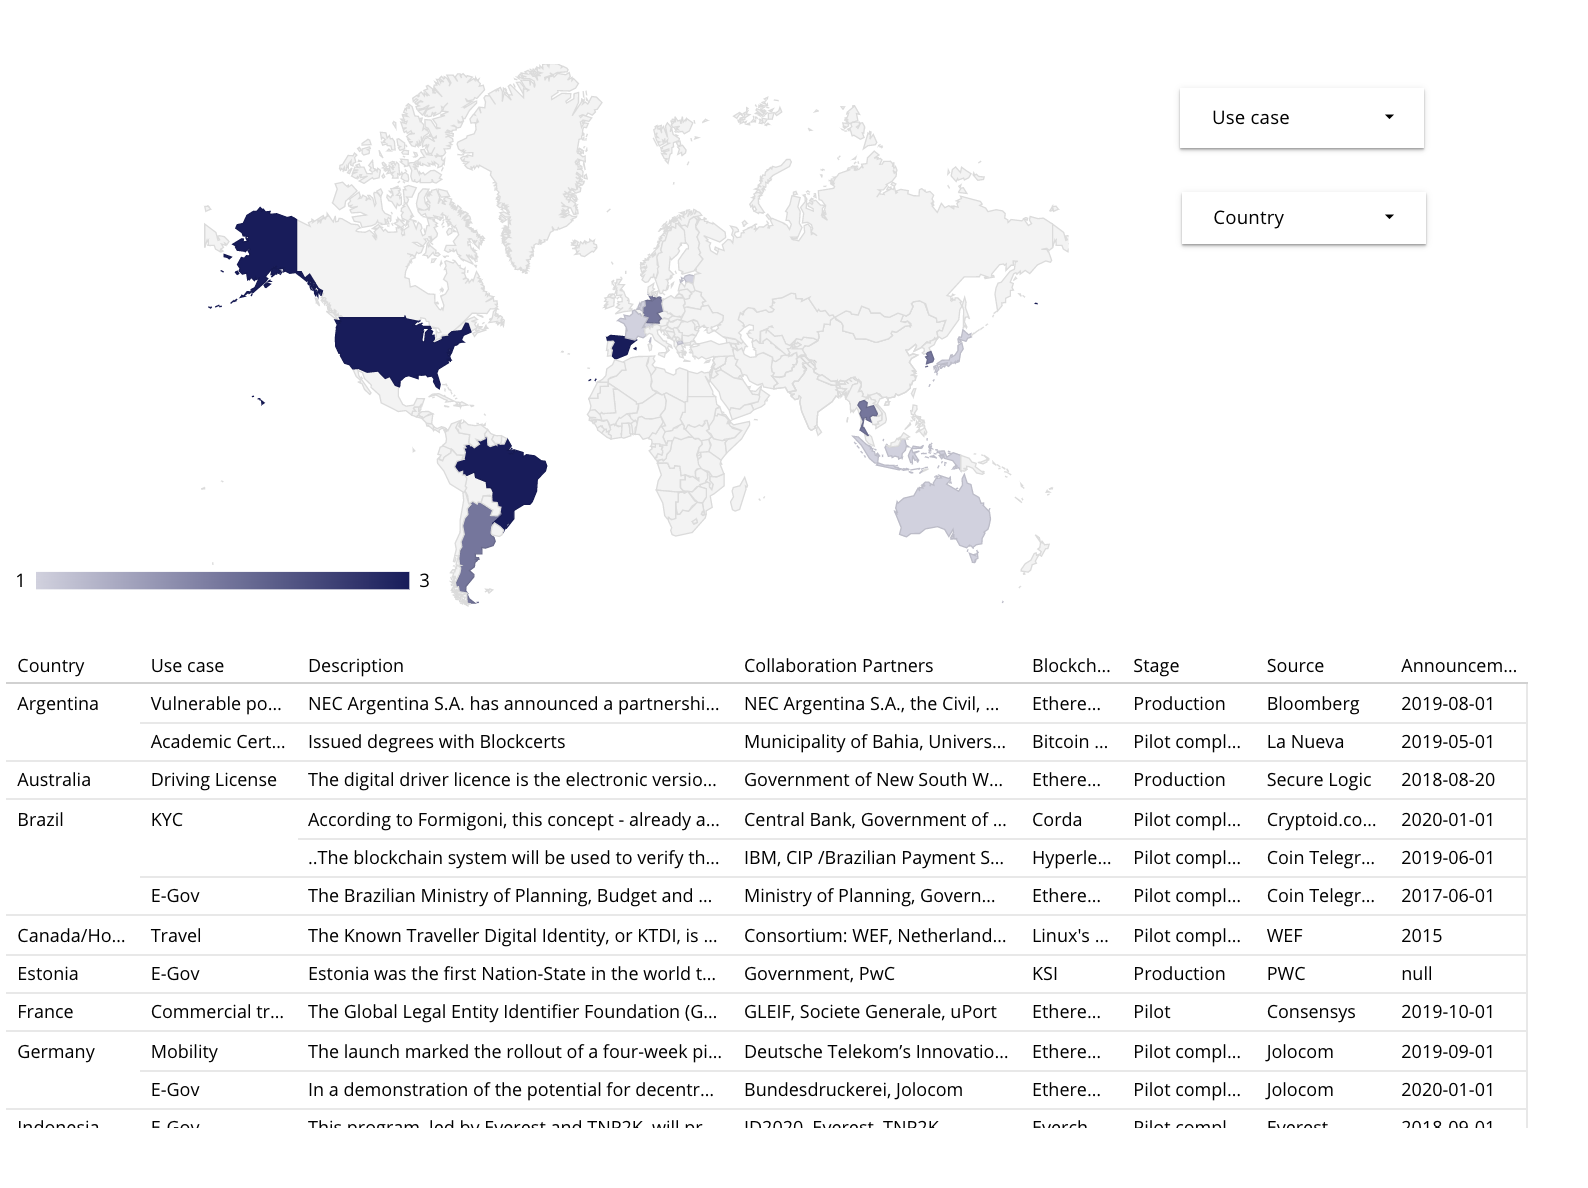
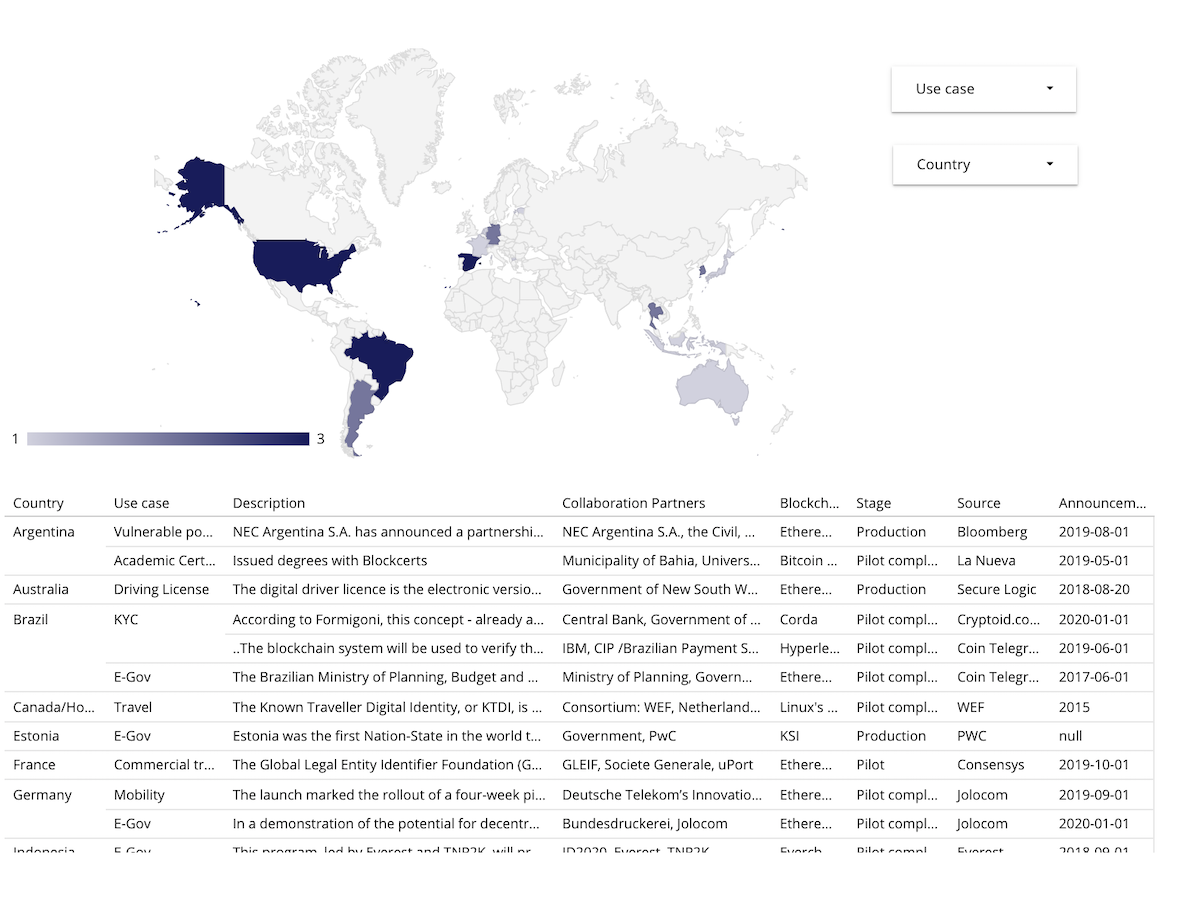
Update from Forestry.io Lou Anderson created static/images/decentralized-digital-identity-pilots.png Lou Anderson updated content/posts/decentralized-identity-projects-and-pilots.md

diff --git a/content/posts/decentralized-identity-projects-and-pilots.md b/content/posts/decentralized-identity-projects-and-pilots.md
@@ -5,9 +5,9 @@ meta_data:
   title: Decentralized identity projects and pilots
   description: Decentralized identity projects and pilots
   rrss_images:
-    twitter: ''
-    facebook_and_whatsapp: ''
-    linkedin: ''
+    twitter: "/static/images/decentralized-digital-identity-pilots.png"
+    facebook_and_whatsapp: "/static/images/decentralized-digital-identity-pilots.png"
+    linkedin: "/static/images/decentralized-digital-identity-pilots.png"
 title: Decentralized identity projects and pilots
 author: ''
 
